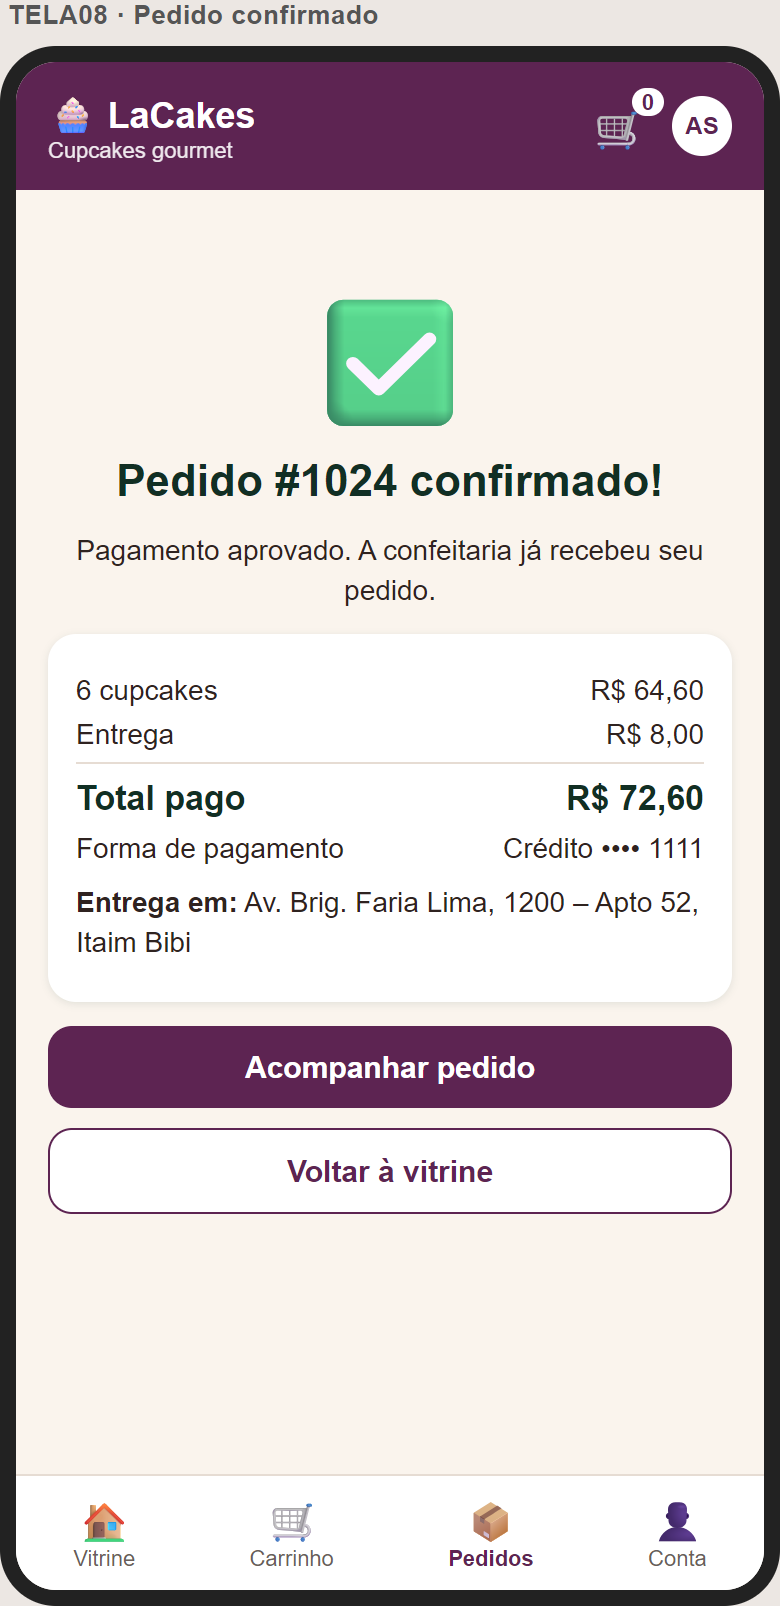
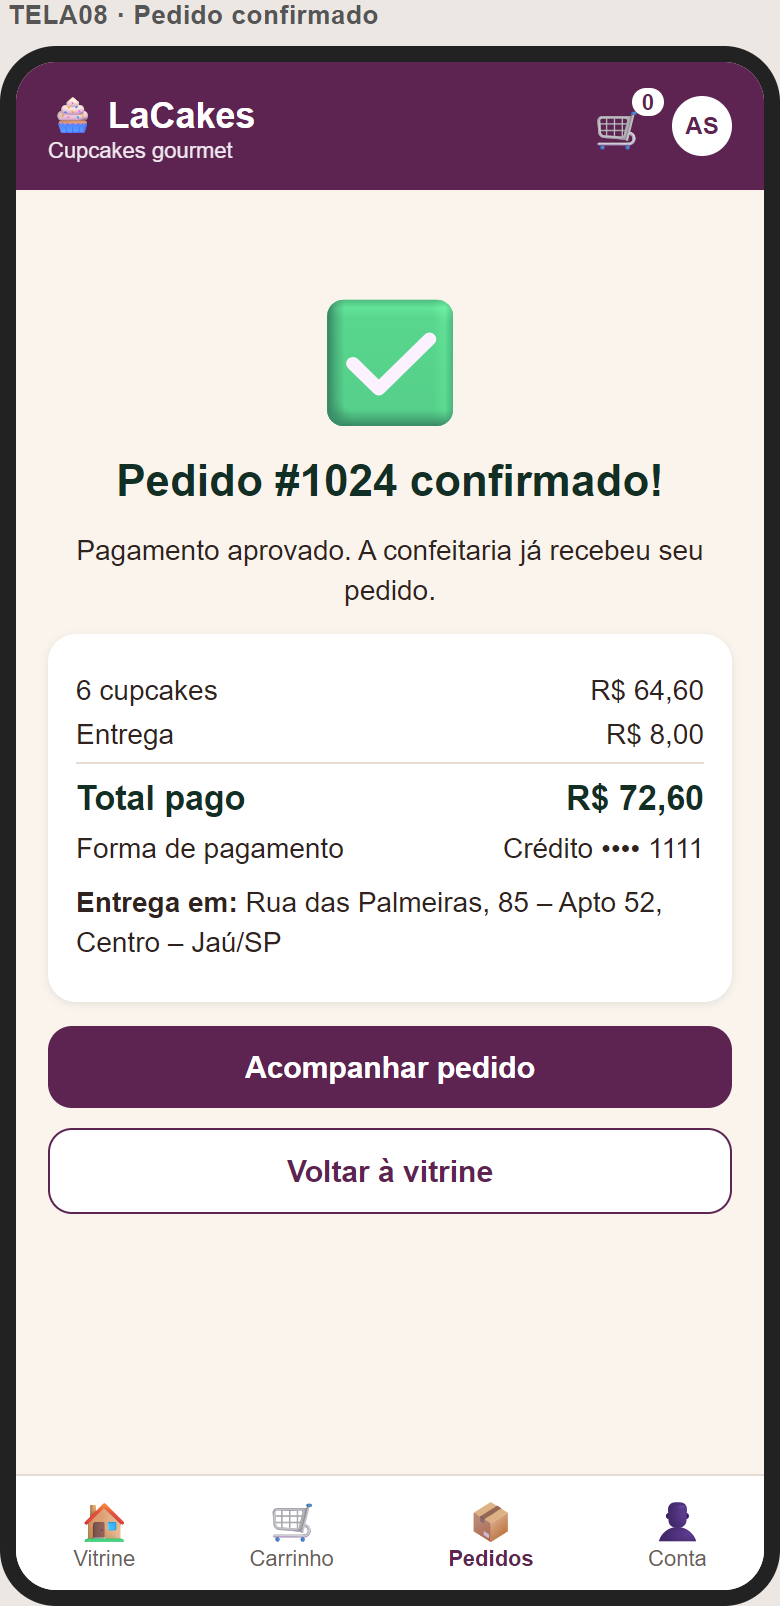
Define a loja em Jaú/SP e a área de entrega pela faixa de CEP da cidade

Changed region(s): [[0.0923, 0.5293, 0.8923, 0.5915]]

diff --git a/docs/planejamento/prototipo/ERRO04.html b/docs/planejamento/prototipo/ERRO04.html
@@ -1,1 +1,1 @@
-<!doctype html><html lang="pt-BR"><head><meta charset="utf-8"><title>ERRO04 – Erro – CEP fora da área / pedido mínimo</title><link rel="stylesheet" href="estilo.css"></head><body class=""><div id="quadro" style="display:inline-block"><p class="rotulo">ERRO04 · Erro – CEP fora da área / pedido mínimo</p><div class="tela"><div class="topo"><div class="logo">🧁 LaCakes<small>Cupcakes gourmet</small></div><div class="icones"><span class="carrinho-ico">🛒<span class="badge-n">6</span></span><span style="font-size:14px"><span class="avatar" title="Minha conta">AS</span></span></div></div><div class="conteudo"><span class="voltar">← Voltar ao carrinho</span><h1>Entrega e resumo</h1><div class="alerta erro">⚠ <span>O pedido mínimo é de R$ 25,00. Adicione mais itens para continuar.</span></div><div class="opcoes"><div class="opcao sel"><b>🚚 Entrega</b>R$ 8,00 · grátis acima de R$ 120</div><div class="opcao"><b>🏪 Retirar na loja</b>Sem taxa · R. das Flores, 120</div></div><label>CEP</label><div class="campo preenchido invalido">13010-000</div><div class="msg-campo">⚠ Ainda não entregamos neste CEP. Você pode escolher Retirar na loja.</div><div class="duas"><div><label>Rua</label><div class="campo">Rua / avenida</div></div></div><div class="duas"><div><label>Número</label><div class="campo">Nº</div></div><div><label>Complemento</label><div class="campo">Opcional</div></div></div><label>Bairro</label><div class="campo">Bairro</div><div class="caixa"><div class="linha"><span>Subtotal</span><span>R$ 19,80</span></div><div class="linha"><span>Entrega</span><span>R$ 8,00</span></div><div class="linha total"><span>Total</span><span>R$ 27,80</span></div></div><div class="btn">Confirmar pedido</div></div></div></div></body></html>
+<!doctype html><html lang="pt-BR"><head><meta charset="utf-8"><title>ERRO04 – Erro – CEP fora da área / pedido mínimo</title><link rel="stylesheet" href="estilo.css"></head><body class=""><div id="quadro" style="display:inline-block"><p class="rotulo">ERRO04 · Erro – CEP fora da área / pedido mínimo</p><div class="tela"><div class="topo"><div class="logo">🧁 LaCakes<small>Cupcakes gourmet</small></div><div class="icones"><span class="carrinho-ico">🛒<span class="badge-n">6</span></span><span style="font-size:14px"><span class="avatar" title="Minha conta">AS</span></span></div></div><div class="conteudo"><span class="voltar">← Voltar ao carrinho</span><h1>Entrega e resumo</h1><div class="alerta erro">⚠ <span>O pedido mínimo é de R$ 25,00. Adicione mais itens para continuar.</span></div><div class="opcoes"><div class="opcao sel"><b>🚚 Entrega</b>R$ 8,00 · grátis acima de R$ 120</div><div class="opcao"><b>🏪 Retirar na loja</b>Sem taxa · R. das Flores, 120 – Jaú</div></div><label>CEP</label><div class="campo preenchido invalido">13010-000</div><div class="msg-campo">⚠ Ainda não entregamos neste CEP. Você pode escolher Retirar na loja.</div><div class="duas"><div><label>Rua</label><div class="campo">Rua / avenida</div></div></div><div class="duas"><div><label>Número</label><div class="campo">Nº</div></div><div><label>Complemento</label><div class="campo">Opcional</div></div></div><label>Bairro</label><div class="campo">Bairro</div><div class="caixa"><div class="linha"><span>Subtotal</span><span>R$ 19,80</span></div><div class="linha"><span>Entrega</span><span>R$ 8,00</span></div><div class="linha total"><span>Total</span><span>R$ 27,80</span></div></div><div class="btn">Confirmar pedido</div></div></div></div></body></html>

diff --git a/docs/planejamento/prototipo/TELA06.html b/docs/planejamento/prototipo/TELA06.html
@@ -1,1 +1,1 @@
-<!doctype html><html lang="pt-BR"><head><meta charset="utf-8"><title>TELA06 – Checkout – entrega e resumo</title><link rel="stylesheet" href="estilo.css"></head><body class=""><div id="quadro" style="display:inline-block"><p class="rotulo">TELA06 · Checkout – entrega e resumo</p><div class="tela"><div class="topo"><div class="logo">🧁 LaCakes<small>Cupcakes gourmet</small></div><div class="icones"><span class="carrinho-ico">🛒<span class="badge-n">6</span></span><span style="font-size:14px"><span class="avatar" title="Minha conta">AS</span></span></div></div><div class="conteudo"><span class="voltar">← Voltar ao carrinho</span><h1>Entrega e resumo</h1><div class="opcoes"><div class="opcao sel"><b>🚚 Entrega</b>R$ 8,00 · grátis acima de R$ 120</div><div class="opcao"><b>🏪 Retirar na loja</b>Sem taxa · R. das Flores, 120</div></div><label>CEP</label><div class="campo preenchido">04538-132</div><div class="duas"><div><label>Rua</label><div class="campo preenchido">Av. Brig. Faria Lima</div></div></div><div class="duas"><div><label>Número</label><div class="campo preenchido">1200</div></div><div><label>Complemento</label><div class="campo preenchido">Apto 52</div></div></div><label>Bairro</label><div class="campo preenchido">Itaim Bibi</div><div class="caixa"><div class="linha"><span>Subtotal</span><span>R$ 64,60</span></div><div class="linha"><span>Entrega</span><span>R$ 8,00</span></div><div class="linha total"><span>Total</span><span>R$ 72,60</span></div></div><div class="btn">Confirmar pedido</div></div></div></div></body></html>
+<!doctype html><html lang="pt-BR"><head><meta charset="utf-8"><title>TELA06 – Checkout – entrega e resumo</title><link rel="stylesheet" href="estilo.css"></head><body class=""><div id="quadro" style="display:inline-block"><p class="rotulo">TELA06 · Checkout – entrega e resumo</p><div class="tela"><div class="topo"><div class="logo">🧁 LaCakes<small>Cupcakes gourmet</small></div><div class="icones"><span class="carrinho-ico">🛒<span class="badge-n">6</span></span><span style="font-size:14px"><span class="avatar" title="Minha conta">AS</span></span></div></div><div class="conteudo"><span class="voltar">← Voltar ao carrinho</span><h1>Entrega e resumo</h1><div class="opcoes"><div class="opcao sel"><b>🚚 Entrega</b>R$ 8,00 · grátis acima de R$ 120</div><div class="opcao"><b>🏪 Retirar na loja</b>Sem taxa · R. das Flores, 120 – Jaú</div></div><label>CEP</label><div class="campo preenchido">17201-000</div><div class="duas"><div><label>Rua</label><div class="campo preenchido">Rua das Palmeiras</div></div></div><div class="duas"><div><label>Número</label><div class="campo preenchido">85</div></div><div><label>Complemento</label><div class="campo preenchido">Apto 52</div></div></div><label>Bairro</label><div class="campo preenchido">Centro</div><div class="caixa"><div class="linha"><span>Subtotal</span><span>R$ 64,60</span></div><div class="linha"><span>Entrega</span><span>R$ 8,00</span></div><div class="linha total"><span>Total</span><span>R$ 72,60</span></div></div><div class="btn">Confirmar pedido</div></div></div></div></body></html>

diff --git a/docs/planejamento/prototipo/TELA08.html b/docs/planejamento/prototipo/TELA08.html
@@ -1,1 +1,1 @@
-<!doctype html><html lang="pt-BR"><head><meta charset="utf-8"><title>TELA08 – Pedido confirmado</title><link rel="stylesheet" href="estilo.css"></head><body class=""><div id="quadro" style="display:inline-block"><p class="rotulo">TELA08 · Pedido confirmado</p><div class="tela"><div class="topo"><div class="logo">🧁 LaCakes<small>Cupcakes gourmet</small></div><div class="icones"><span class="carrinho-ico">🛒<span class="badge-n">0</span></span><span style="font-size:14px"><span class="avatar" title="Minha conta">AS</span></span></div></div><div class="conteudo centro"><div class="icone-g">✅</div><h1>Pedido #1024 confirmado!</h1><p>Pagamento aprovado. A confeitaria já recebeu seu pedido.</p><div class="caixa" style="text-align:left"><div class="linha"><span>6 cupcakes</span><span>R$ 64,60</span></div><div class="linha"><span>Entrega</span><span>R$ 8,00</span></div><div class="linha total"><span>Total pago</span><span>R$ 72,60</span></div><div class="linha"><span>Forma de pagamento</span><span>Crédito •••• 1111</span></div><p style="margin-top:10px"><b>Entrega em:</b> Av. Brig. Faria Lima, 1200 – Apto 52, Itaim Bibi</p></div><div class="btn">Acompanhar pedido</div><div class="btn sec">Voltar à vitrine</div></div><div class="rodape-nav"><div class=""><span>🏠</span>Vitrine</div><div class=""><span>🛒</span>Carrinho</div><div class="ativo"><span>📦</span>Pedidos</div><div class=""><span>👤</span>Conta</div></div></div></div></body></html>
+<!doctype html><html lang="pt-BR"><head><meta charset="utf-8"><title>TELA08 – Pedido confirmado</title><link rel="stylesheet" href="estilo.css"></head><body class=""><div id="quadro" style="display:inline-block"><p class="rotulo">TELA08 · Pedido confirmado</p><div class="tela"><div class="topo"><div class="logo">🧁 LaCakes<small>Cupcakes gourmet</small></div><div class="icones"><span class="carrinho-ico">🛒<span class="badge-n">0</span></span><span style="font-size:14px"><span class="avatar" title="Minha conta">AS</span></span></div></div><div class="conteudo centro"><div class="icone-g">✅</div><h1>Pedido #1024 confirmado!</h1><p>Pagamento aprovado. A confeitaria já recebeu seu pedido.</p><div class="caixa" style="text-align:left"><div class="linha"><span>6 cupcakes</span><span>R$ 64,60</span></div><div class="linha"><span>Entrega</span><span>R$ 8,00</span></div><div class="linha total"><span>Total pago</span><span>R$ 72,60</span></div><div class="linha"><span>Forma de pagamento</span><span>Crédito •••• 1111</span></div><p style="margin-top:10px"><b>Entrega em:</b> Rua das Palmeiras, 85 – Apto 52, Centro – Jaú/SP</p></div><div class="btn">Acompanhar pedido</div><div class="btn sec">Voltar à vitrine</div></div><div class="rodape-nav"><div class=""><span>🏠</span>Vitrine</div><div class=""><span>🛒</span>Carrinho</div><div class="ativo"><span>📦</span>Pedidos</div><div class=""><span>👤</span>Conta</div></div></div></div></body></html>

diff --git a/scripts/gerar_telas.py b/scripts/gerar_telas.py
@@ -123,14 +123,14 @@ def carrinho():
 
 def checkout(erro=False):
     alerta = ('<div class="alerta erro">⚠ <span>O pedido mínimo é de R$ 25,00. Adicione mais itens para continuar.</span></div>' if erro else "")
-    cep = campo("CEP", "13010-000", erro="Ainda não entregamos neste CEP. Você pode escolher Retirar na loja.") if erro else campo("CEP", "04538-132")
+    cep = campo("CEP", "13010-000", erro="Ainda não entregamos neste CEP. Você pode escolher Retirar na loja.") if erro else campo("CEP", "17201-000")
     sub, taxa, total = ("19,80", "8,00", "27,80") if erro else ("64,60", "8,00", "72,60")
     return (topo(6) + '<div class="conteudo"><span class="voltar">← Voltar ao carrinho</span><h1>Entrega e resumo</h1>' + alerta
             + '<div class="opcoes"><div class="opcao sel"><b>🚚 Entrega</b>R$ 8,00 · grátis acima de R$ 120</div>'
-            '<div class="opcao"><b>🏪 Retirar na loja</b>Sem taxa · R. das Flores, 120</div></div>'
-            + cep + '<div class="duas"><div>' + campo("Rua", "" if erro else "Av. Brig. Faria Lima", "Rua / avenida")
-            + '</div></div><div class="duas"><div>' + campo("Número", "" if erro else "1200", "Nº") + '</div><div>'
-            + campo("Complemento", "" if erro else "Apto 52", "Opcional") + '</div></div>' + campo("Bairro", "" if erro else "Itaim Bibi", "Bairro")
+            '<div class="opcao"><b>🏪 Retirar na loja</b>Sem taxa · R. das Flores, 120 – Jaú</div></div>'
+            + cep + '<div class="duas"><div>' + campo("Rua", "" if erro else "Rua das Palmeiras", "Rua / avenida")
+            + '</div></div><div class="duas"><div>' + campo("Número", "" if erro else "85", "Nº") + '</div><div>'
+            + campo("Complemento", "" if erro else "Apto 52", "Opcional") + '</div></div>' + campo("Bairro", "" if erro else "Centro", "Bairro")
             + f'<div class="caixa"><div class="linha"><span>Subtotal</span><span>R$ {sub}</span></div>'
             f'<div class="linha"><span>Entrega</span><span>R$ {taxa}</span></div><div class="linha total"><span>Total</span><span>R$ {total}</span></div></div>'
             '<div class="btn">Confirmar pedido</div></div>')
@@ -152,7 +152,7 @@ def confirmado():
             '<div class="linha"><span>6 cupcakes</span><span>R$ 64,60</span></div><div class="linha"><span>Entrega</span><span>R$ 8,00</span></div>'
             '<div class="linha total"><span>Total pago</span><span>R$ 72,60</span></div>'
             '<div class="linha"><span>Forma de pagamento</span><span>Crédito •••• 1111</span></div>'
-            '<p style="margin-top:10px"><b>Entrega em:</b> Av. Brig. Faria Lima, 1200 – Apto 52, Itaim Bibi</p></div>'
+            '<p style="margin-top:10px"><b>Entrega em:</b> Rua das Palmeiras, 85 – Apto 52, Centro – Jaú/SP</p></div>'
             '<div class="btn">Acompanhar pedido</div><div class="btn sec">Voltar à vitrine</div></div>' + nav("Pedidos"))
 
 

diff --git a/scripts/conteudo_planejamento.py b/scripts/conteudo_planejamento.py
@@ -47,7 +47,7 @@ REGRAS = [
     ("RN04", "Limite de quantidade", "A quantidade de cada item no carrinho vai de 1 a 24 unidades e nunca pode passar do estoque disponível do produto."),
     ("RN05", "Pedido mínimo", "O subtotal mínimo de um pedido é R$ 25,00, em qualquer modalidade (entrega ou retirada)."),
     ("RN06", "Taxa de entrega", "Entrega custa R$ 8,00 (taxa fixa). Para subtotal a partir de R$ 120,00 a entrega é grátis. Retirada na loja não tem taxa."),
-    ("RN07", "Área de entrega", "A loja só entrega em CEPs que começam com 01 a 05 (região atendida). Fora disso, o cliente só pode escolher retirada na loja."),
+    ("RN07", "Área de entrega", "A loja fica em Jaú/SP (Rua das Flores, 120) e só entrega dentro da cidade: CEPs de 17200-001 a 17229-999. Fora dessa faixa, o cliente só pode escolher retirada na loja."),
     ("RN08", "Baixa de estoque", "O estoque só é baixado quando o pagamento é aprovado. Antes de aprovar, o sistema confere de novo se ainda há estoque de cada item."),
     ("RN09", "Pagamento simulado", "O pagamento é simulado e aceita cartão de crédito, cartão de débito ou Pix. Cartão (crédito ou débito): número com 16 dígitos, validade futura e CVV de 3 dígitos. Para fins de teste, cartões terminados em 0000 são recusados nas duas modalidades. Pix: um código \"copia e cola\" é gerado e o pagamento é aprovado quando o cliente confirma."),
     ("RN10", "Fluxo de status do pedido", "Status possíveis: Aguardando pagamento → Pago → Em preparo → Saiu para entrega (ou Pronto para retirada) → Entregue. O pedido só avança uma etapa por vez. Cancelado é um status final."),
@@ -146,7 +146,7 @@ HISTORIAS = [
          rn=["RN06"], rnf=["RNF04"], prioridade="A", pontos=3),
     dict(id="US11", tema="T3", titulo="Informar endereço e saber se a loja entrega", requerente="Cliente",
          acao="Como cliente, quero informar meu CEP e endereço e saber na hora se a loja entrega na minha região, para não fazer um pedido que não pode ser entregue.",
-         comentarios="A loja entrega só na região próxima (CEPs que começam com 01 a 05). Validação simples pelo prefixo; não há integração com serviço de CEP nesta versão.",
+         comentarios="A loja entrega só em Jaú/SP (CEPs de 17200-001 a 17229-999). Validação simples pela faixa de CEP; não há integração com serviço de CEP nesta versão.",
          ca=["Dado que escolhi entrega, quando informo um CEP atendido e o endereço completo, então posso seguir para o pagamento.",
              "Dado que informo um CEP fora da área, quando continuo, então vejo \"Ainda não entregamos neste CEP. Você pode escolher Retirar na loja.\"",
              "Dado que deixo rua, número ou bairro em branco, quando continuo, então vejo o erro no campo que faltou."],

diff --git a/docs/decisoes.md b/docs/decisoes.md
@@ -13,7 +13,7 @@ Decisões de projeto e o motivo de cada uma.
 | D05 | Pagamento **simulado** por cartão de crédito, cartão de débito ou Pix. Cartões terminados em 0000 são recusados (crédito e débito). | Não há gateway real no escopo; a regra do final 0000 permite testar o cenário de recusa. Nenhum número de cartão completo é guardado (só a modalidade e os 4 últimos dígitos). |
 | D06 | Carrinho guardado na **sessão** (não no banco). | Mais simples, permite que o visitante monte o carrinho antes do login e não precisa de tabela extra. |
 | D07 | Endereço de entrega gravado **dentro do pedido** (não em tabela separada de endereços). | Funciona como "foto" do endereço no momento da compra e mantém o escopo enxuto. |
-| D08 | Área de entrega validada pelo **prefixo do CEP** (01 a 05). | Não há integração com serviço de CEP no escopo; a regra é simples de testar. |
+| D08 | Loja em **Jaú/SP** (Rua das Flores, 120; seg. a sáb., 9h às 19h). Entrega só para CEPs de Jaú (**17200-001 a 17229-999**). | Não há integração com serviço de CEP no escopo; a faixa oficial da cidade é simples de validar e testar. |
 | D09 | Prioridade dos cartões de A a E; pontos em Fibonacci (1, 2, 3, 5). No backlog, a prioridade é a ordem de execução seguida da letra. | A letra mostra a importância; o número mostra a sequência de trabalho. |
 | D10 | Diagramas feitos em **Mermaid** (código em `docs/planejamento/diagramas/`) e renderizados com Playwright usando o Microsoft Edge instalado. O diagrama de caso de uso é um **SVG** gerado por script. | O Mermaid não tem diagrama de caso de uso UML; o restante fica versionado como texto. |
 | D11 | Wireframes e mockups gerados do **mesmo HTML/CSS** (`docs/planejamento/prototipo/`), com um modo "wireframe" em tons de cinza. | Garante que wireframe e mockup mostram as mesmas telas, e o CSS pode ser reaproveitado no front-end. |
